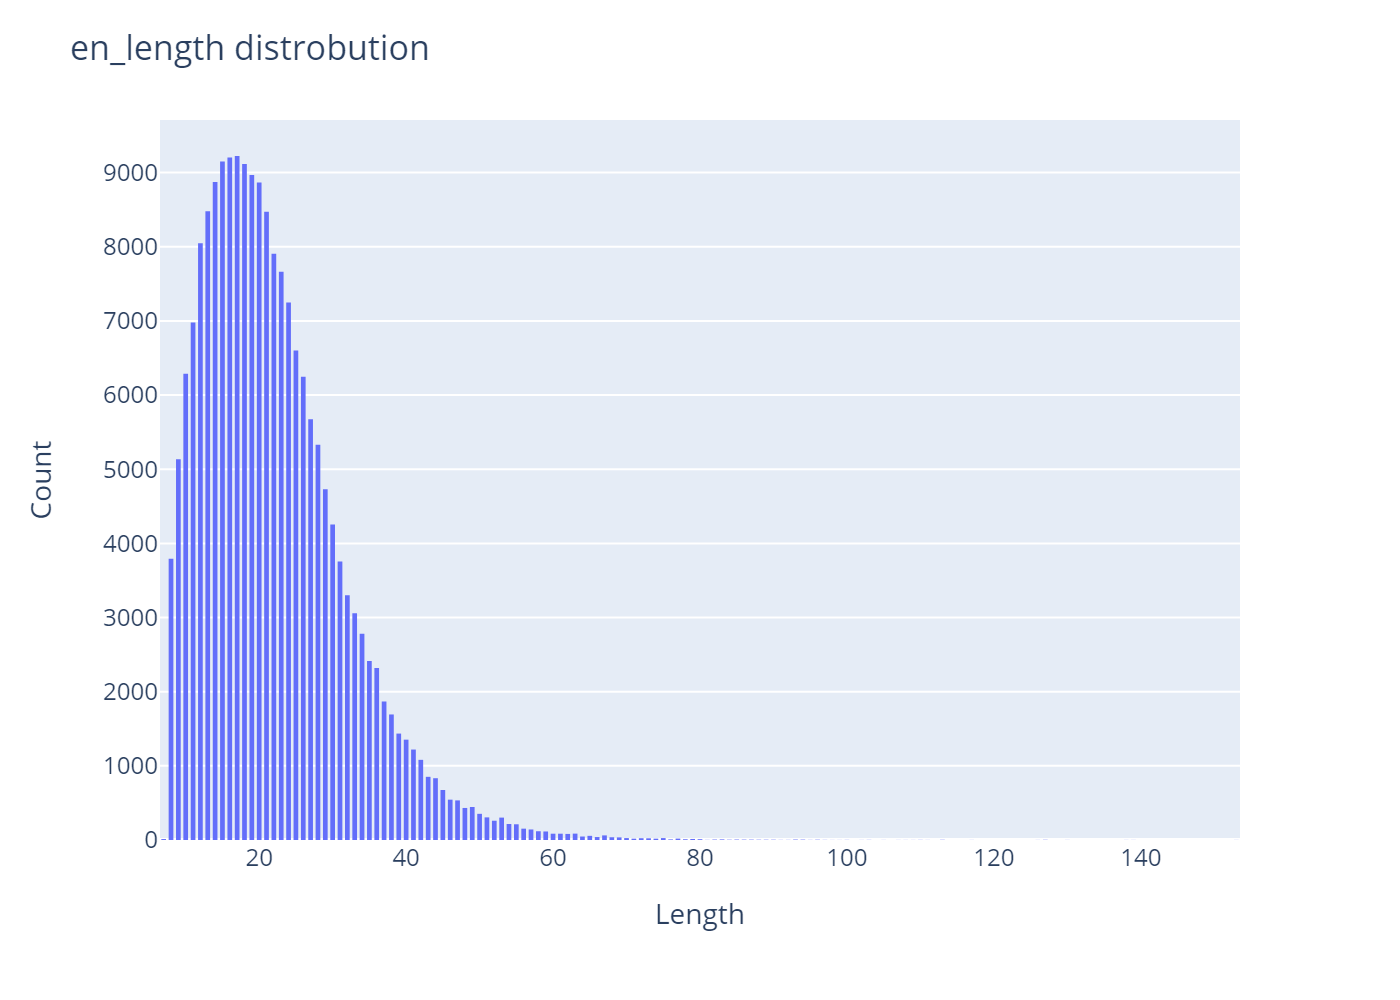
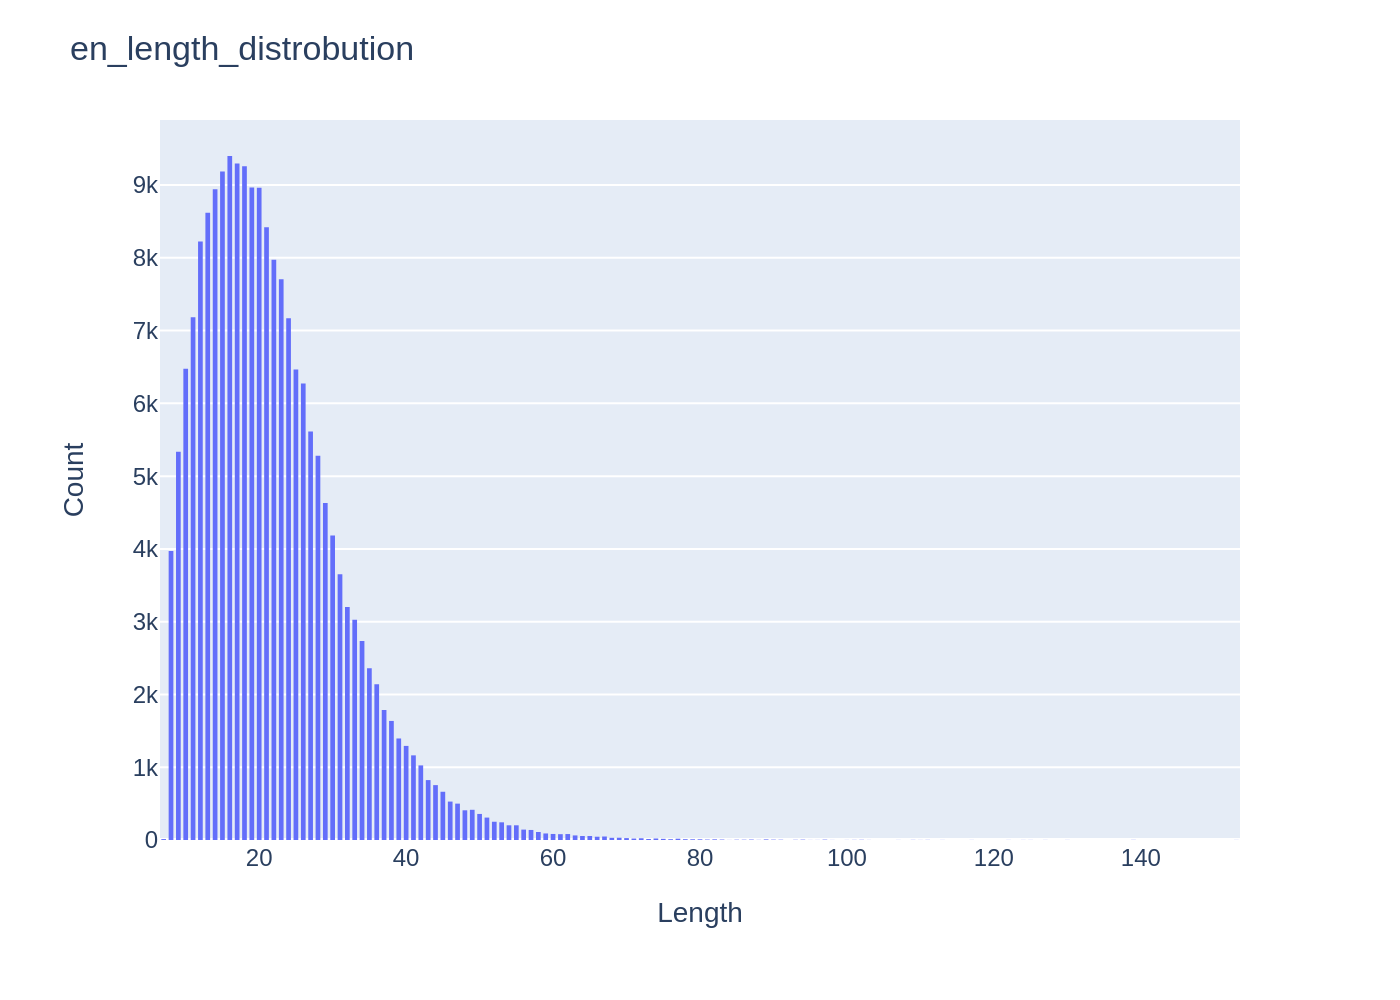
update data information

diff --git a/EDA.py b/EDA.py
@@ -1,54 +1,100 @@
-import json, hazm, stanza, os
-from operator import index
+import json, os
 from plotly import data
 import pandas as pd
 import plotly.graph_objects as go
 import plotly.express as px
 
+import sparknlp
+from sparknlp.base import *
+from sparknlp.annotator import *
+from pyspark.ml import Pipeline
 
-nlp = stanza.Pipeline(lang='en', processors='tokenize', tokenize_no_ssplit=True)
+
+from pyspark.sql import SparkSession
+from pyspark.sql.types import *
+
+
+# spark = sparknlp.start()
+
+
+spark = SparkSession.builder \
+    .appName("Spark NLP")\
+    .master("local[4]")\
+    .config("spark.driver.memory","16G")\
+    .config("spark.driver.maxResultSize", "0") \
+    .config("spark.kryoserializer.buffer.max", "2000M")\
+    .config("spark.jars.packages", "com.johnsnowlabs.nlp:spark-nlp_2.12:4.0.2")\
+    .getOrCreate()
+
+def get_pipeline(col):
+
+    documentAssembler = DocumentAssembler() \
+        .setInputCol(col) \
+        .setOutputCol("document")
+
+    sentenceDetector = SentenceDetector() \
+        .setInputCols(["document"]) \
+        .setOutputCol("sentence")
+
+    regexTokenizer = Tokenizer() \
+        .setInputCols(["sentence"]) \
+        .setOutputCol("token")
+
+    finisher = Finisher() \
+        .setInputCols(["token"]) \
+        .setIncludeMetadata(True)
+    
+    pipeline = Pipeline().setStages([
+    documentAssembler,
+    sentenceDetector,
+    regexTokenizer,
+    finisher
+    ])
+    return pipeline
 
 def extract_information(df, config):
+
+    df_general = pd.DataFrame({})
+
+    fa_pip = get_pipeline('fa')
+    en_pip = get_pipeline('en')
+    
+    fa = fa_pip.fit(df).transform(df).select("finished_token", 'fa')
+    en = en_pip.fit(df).transform(df).select("finished_token", 'en')
+
+    result_fa = fa.collect()
+    result_en = en.collect()
+
     fa_tokens = []
     fa_length = []
     fa_ch_length = []
 
-    en_crp = ''
     en_tokens = []
     en_length = []
     en_ch_length = []
 
-    for index, row in df.iterrows():
-        row['fa'] = str(row['fa'])
-        tokens = hazm.word_tokenize(row['fa'])
-        fa_tokens.extend(tokens)
-        fa_length.append(len(tokens))
-        fa_ch_length.append(len(row['fa']))
 
-        row['en'] = str(row['en'])
-        row['en'] += '\n\n'
-        en_crp+= row['en']
-        en_ch_length.append(len(row['en']))
+    for item in result_fa:
+        fa_tokens.extend(item.finished_token)
+        fa_length.append(len(item.finished_token))
+        fa_ch_length.append(len(item.fa))
 
-        # if index == 50:
-        #     break
+    for item in result_en:
+        en_tokens.extend(item.finished_token)
+        en_length.append(len(item.finished_token))
+        en_ch_length.append(len(item.en))
 
-    doc = nlp(en_crp)
-    for i, sentence in enumerate(doc.sentences):
-        en_length.append(len(sentence.tokens))
-        [en_tokens.append(token.text) for token in sentence.tokens]
 
-    # df = df[:51]
-    df['fa_length'] = fa_length
-    df['en_length'] = en_length
-    
-    df['fa_ch_length'] = fa_ch_length
-    df['en_ch_length'] = en_ch_length
+    df_general = df_general.append({
+        "fa_length": fa_length,
+        "en_length": en_length,
+        "fa_ch_length": fa_ch_length,
+        "en_ch_length":en_ch_length,
+        "fa_unique": [len(set(fa_tokens))] * df.count(),
+        "en_unique": [len(set(en_tokens))] * df.count()
+    }, ignore_index=True)
 
-    df['fa_unique'] = [len(set(fa_tokens))] * len(df)
-    df['en_unique'] = [len(set(en_tokens))] * len(df)
-
-    df[['fa_length', 'en_length', 'fa_ch_length', 'en_ch_length', 'fa_unique', 'en_unique']].to_csv(config['output_directory'] + '/general.csv')
+    df_general.to_csv(config['output_directory'] + '/general.csv')
 
 def data_gl_than(data, less_than=10, greater_than=0.0, col='fa_length'):
     data_length = data[col].values
@@ -129,27 +175,35 @@ def draw_charts(df, config):
 
 
 if __name__ == '__main__':
-    
-    config_path = './Config/config_eda.json'
+    datasets = ['TEP', "TEP++", "Mizan", "OpenSubtitles", "PEPC_Bidirectional", "PEPC_Onedirectional"]
+
+    schema = StructType([StructField("fa", StringType(), True), StructField("en", StringType(), True)])
+
+    for d in datasets:
+        config_path = './Config/config_eda.json'
 
     with open(str(config_path), 'r+') as f:
         config = json.load(f)
+    
+    # config['file_path'] = './drive/MyDrive/data/{}/en-fa.csv'.format(d)
+    # config['output_directory'] = './data/{}/eda'.format(d)
 
+    print(d)
 
     os.makedirs(config['output_directory'], exist_ok=True)
 
     df = pd.read_csv(config['file_path'])
+    df = spark.createDataFrame(df, schema=schema)
+
     extract_information(df, config)
 
     df = pd.read_csv(config['output_directory'] + '/general.csv')
     get_dataset_stat(df, config)
     draw_charts(df[['fa_length', 'en_length', 'fa_ch_length', 'en_ch_length']], config)
+    print("finish {}".format(d))
 
 
 
-
-
-    
 
 
 

diff --git a/data/README.md b/data/README.md
@@ -10,26 +10,29 @@
 
 <div align="center">
 
-|       datasets      |   train   |   dev  |   test  |    all    |
-|:-------------------:|:---------:|:------:|:-------:|:---------:|
-|        Mizan        | 1006430.0 | 5000.0 | 10166.0 | 1021596.0 |
-|  PEPC_Bidirectional |  175442.0 | 5000.0 | 19494.0 |  199936.0 |
-| PEPC_Onedirectional |  138005.0 | 5000.0 | 15334.0 |  158339.0 |
-|         TEP         |  72748.0  | 5000.0 |  8084.0 |  85832.0  |
-|        TEP++        |  515925.0 | 5000.0 | 57326.0 |  578251.0 |
-|    OpenSubtitles    | 1000000.0 | 2000.0 |  2000.0 | 1004000.0 |
+|       datasets      |  train  |  dev |  test |   all   |
+|:-------------------:|:-------:|:----:|:-----:|:-------:|
+|        Mizan        | 1006430 | 5000 | 10166 | 1021596 |
+|  PEPC_Bidirectional |  175442 | 5000 | 19494 |  199936 |
+| PEPC_Onedirectional |  138005 | 5000 | 15334 |  158339 |
+|         TEP         |  72748  | 5000 |  8084 |  85832  |
+|        TEP++        |  515925 | 5000 | 57326 |  578251 |
+|    OpenSubtitles    | 1000000 | 2000 |  2000 | 1004000 |
+
 </div>
 
 
 <div align="center">
 Word level <b>Persian-English</b>
 
-|       dataset       | avg_fa | min_fa | max_fa | 92%_fa |  all_fa | unique_fa | avg_en | min_en | max_en | 92%_en |  all_en | unique_en |
-|:-------------------:|:------:|:------:|:------:|:------:|:-------:|:---------:|:------:|:------:|:------:|:------:|:-------:|:---------:|
-|  PEPC_Bidirectional |   21   |    6   |   194  |   36   | 4295971 |   140512  |   21   |    7   |   153  |   37   | 4397290 |   134726  |
-| PEPC_Onedirectional |   23   |    6   |   194  |   38   | 3650404 |   132567  |   21   |    7   |   153  |   36   | 3391029 |   131110  |
-|         TEP         |    7   |    1   |   32   |   14   |  682786 |   36793   |    8   |    1   |   37   |   14   |  716605 |   22615   |
-
+|       dataset       | avg_fa | min_fa | max_fa | 92%_fa |  all_fa  | unique_fa | avg_en | min_en | max_en | 92%_en |  all_en  | unique_en |
+|:-------------------:|:------:|:------:|:------:|:------:|:--------:|:---------:|:------:|:------:|:------:|:------:|:--------:|:---------:|
+|        Mizan        |   13   |    1   |   232  |   26   | 13464236 |   131751  |   13   |    0   |   226  |   26   | 13360397 |   259182  |
+|    OpenSubtitles    |   10   |    1   |  1487  |   21   | 10284744 |   155874  |    9   |    1   |   839  |   20   |  9524220 |   342979  |
+|  PEPC_Bidirectional |   20   |    7   |   178  |   35   |  4163011 |   169637  |   21   |    7   |   153  |   36   |  4354619 |   142792  |
+| PEPC_Onedirectional |   22   |    7   |   178  |   37   |  3539183 |   158707  |   21   |    7   |   153  |   36   |  3359635 |   138489  |
+|         TEP         |    8   |    1   |   37   |   14   |  716113  |   22710   |    7   |    1   |   33   |   14   |  684242  |   36634   |
+|        TEP++        |    7   |    1   |   34   |   13   |  4445543 |   92037   |    8   |    0   |   32   |   14   |  4720821 |   57753   |
 
 </div>
 
@@ -39,12 +42,14 @@ Word level <b>Persian-English</b>
 <div align="center">
 Charachter level <b>Persian-English</b>
 
-
 |       dataset       | avgc_fa | minc_fa | maxc_fa | avgc_en | minc_en | maxc_en |
 |:-------------------:|:-------:|:-------:|:-------:|:-------:|:-------:|:-------:|
-|  PEPC_Bidirectional |   105   |    23   |   870   |   129   |    17   |   870   |
-| PEPC_Onedirectional |   112   |    23   |   870   |   126   |    17   |   870   |
-|         TEP         |    33   |    1    |   144   |    37   |    3    |   158   |
+|        Mizan        |    62   |    1    |   1242  |    59   |    1    |   986   |
+|    OpenSubtitles    |    43   |    1    |  17501  |    41   |    1    |  12213  |
+|  PEPC_Bidirectional |   105   |    23   |   870   |   127   |    15   |   868   |
+| PEPC_Onedirectional |   112   |    23   |   870   |   124   |    15   |   868   |
+|         TEP         |    35   |    1    |   156   |    33   |    1    |   144   |
+|        TEP++        |    34   |    1    |   149   |    36   |    1    |   154   |
 
 </div>
 
@@ -59,6 +64,17 @@ Persian word distrobution             |  English word distrobution
 Persian charachter distrobution             |  English charachter distrobution
 :-------------------------:|:-------------------------:
 ![](https://github.com/asartipi13/Persian-MT/blob/main/data/TEP/eda/fa_ch_length_distrobution.png?raw=true)  |  ![](https://github.com/asartipi13/Persian-MT/blob/main/data/TEP/eda/en_ch_length_distrobution.png?raw=true)
+
+
+# TEP++
+Persian word distrobution             |  English word distrobution
+:-------------------------:|:-------------------------:
+![](https://github.com/asartipi13/Persian-MT/blob/main/data/TEP++/eda/fa_length_distrobution.png?raw=true)  |  ![](https://github.com/asartipi13/Persian-MT/blob/main/data/TEP++/eda/en_length_distrobution.png?raw=true)
+
+
+Persian charachter distrobution             |  English charachter distrobution
+:-------------------------:|:-------------------------:
+![](https://github.com/asartipi13/Persian-MT/blob/main/data/TEP++/eda/fa_ch_length_distrobution.png?raw=true)  |  ![](https://github.com/asartipi13/Persian-MT/blob/main/data/TEP++/eda/en_ch_length_distrobution.png?raw=true)
 
 
 # PEPC_Bidirectional
@@ -83,3 +99,46 @@ Persian charachter distrobution             |  English charachter distrobution
 :-------------------------:|:-------------------------:
 ![](https://github.com/asartipi13/Persian-MT/blob/main/data/PEPC_Onedirectional/eda/fa_ch_length_distrobution.png?raw=true)  |  ![](https://github.com/asartipi13/Persian-MT/blob/main/data/PEPC_Onedirectional/eda/en_ch_length_distrobution.png?raw=true)
 
+
+# Mizan
+Persian word distrobution             |  English word distrobution
+:-------------------------:|:-------------------------:
+![](https://github.com/asartipi13/Persian-MT/blob/main/data/Mizan/eda/fa_length_distrobution.png?raw=true)  |  ![](https://github.com/asartipi13/Persian-MT/blob/main/data/Mizan/eda/en_length_distrobution.png?raw=true)
+
+
+Persian charachter distrobution             |  English charachter distrobution
+:-------------------------:|:-------------------------:
+![](https://github.com/asartipi13/Persian-MT/blob/main/data/Mizan/eda/fa_ch_length_distrobution.png?raw=true)  |  ![](https://github.com/asartipi13/Persian-MT/blob/main/data/Mizan/eda/en_ch_length_distrobution.png?raw=true)
+
+
+# OpenSubtitles
+Persian word distrobution             |  English word distrobution
+:-------------------------:|:-------------------------:
+![](https://github.com/asartipi13/Persian-MT/blob/main/data/OpenSubtitles/eda/fa_length_distrobution.png?raw=true)  |  ![](https://github.com/asartipi13/Persian-MT/blob/main/data/OpenSubtitles/eda/en_length_distrobution.png?raw=true)
+
+
+Persian charachter distrobution             |  English charachter distrobution
+:-------------------------:|:-------------------------:
+![](https://github.com/asartipi13/Persian-MT/blob/main/data/OpenSubtitles/eda/fa_ch_length_distrobution.png?raw=true)  |  ![](https://github.com/asartipi13/Persian-MT/blob/main/data/OpenSubtitles/eda/en_ch_length_distrobution.png?raw=true)
+
+
+# Quran
+Persian word distrobution             |  English word distrobution
+:-------------------------:|:-------------------------:
+![](https://github.com/asartipi13/Persian-MT/blob/main/data/Quran/eda/fa_length_distrobution.png?raw=true)  |  ![](https://github.com/asartipi13/Persian-MT/blob/main/data/Quran/eda/en_length_distrobution.png?raw=true)
+
+
+Persian charachter distrobution             |  English charachter distrobution
+:-------------------------:|:-------------------------:
+![](https://github.com/asartipi13/Persian-MT/blob/main/data/Quran/eda/fa_ch_length_distrobution.png?raw=true)  |  ![](https://github.com/asartipi13/Persian-MT/blob/main/data/Quran/eda/en_ch_length_distrobution.png?raw=true)
+
+
+# Bible
+Persian word distrobution             |  English word distrobution
+:-------------------------:|:-------------------------:
+![](https://github.com/asartipi13/Persian-MT/blob/main/data/Bible/eda/fa_length_distrobution.png?raw=true)  |  ![](https://github.com/asartipi13/Persian-MT/blob/main/data/Bible/eda/en_length_distrobution.png?raw=true)
+
+
+Persian charachter distrobution             |  English charachter distrobution
+:-------------------------:|:-------------------------:
+![](https://github.com/asartipi13/Persian-MT/blob/main/data/Bible/eda/fa_ch_length_distrobution.png?raw=true)  |  ![](https://github.com/asartipi13/Persian-MT/blob/main/data/Bible/eda/en_ch_length_distrobution.png?raw=true)
